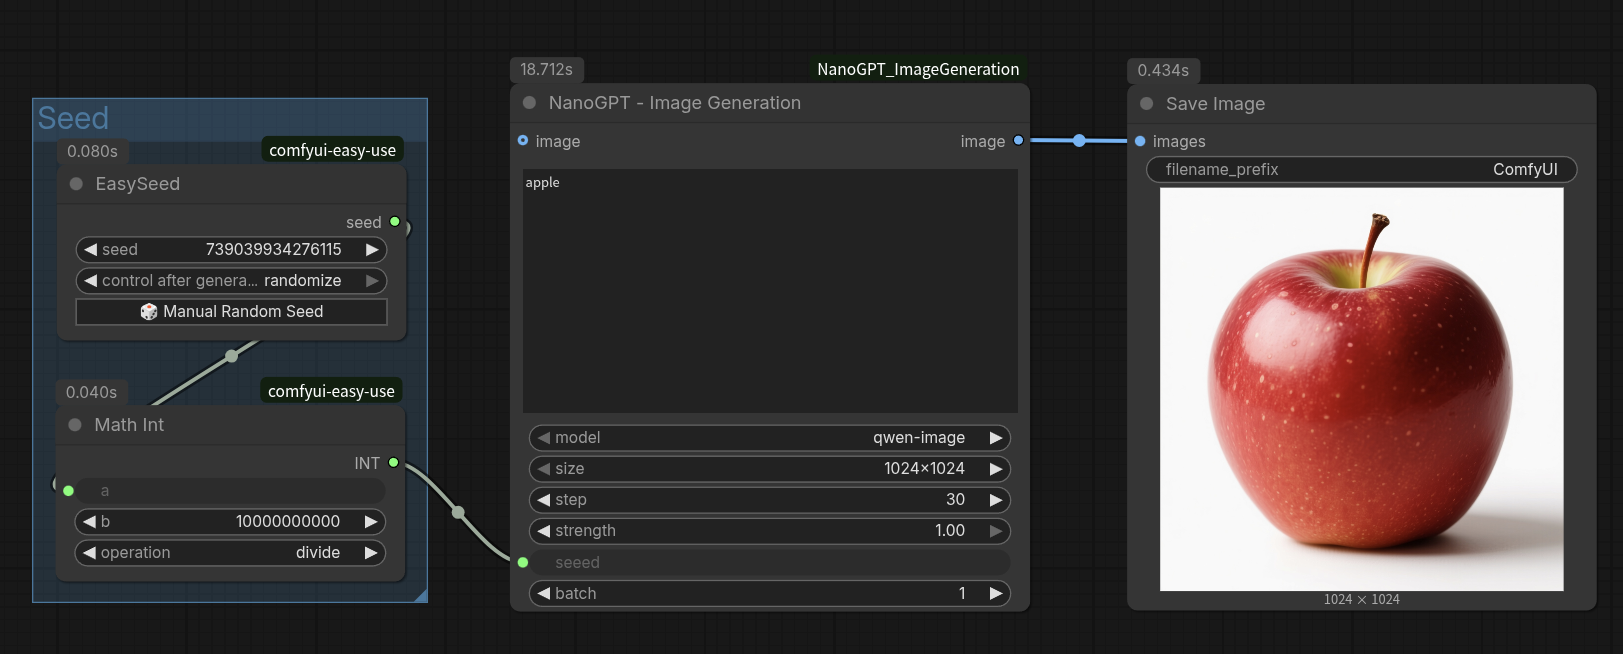
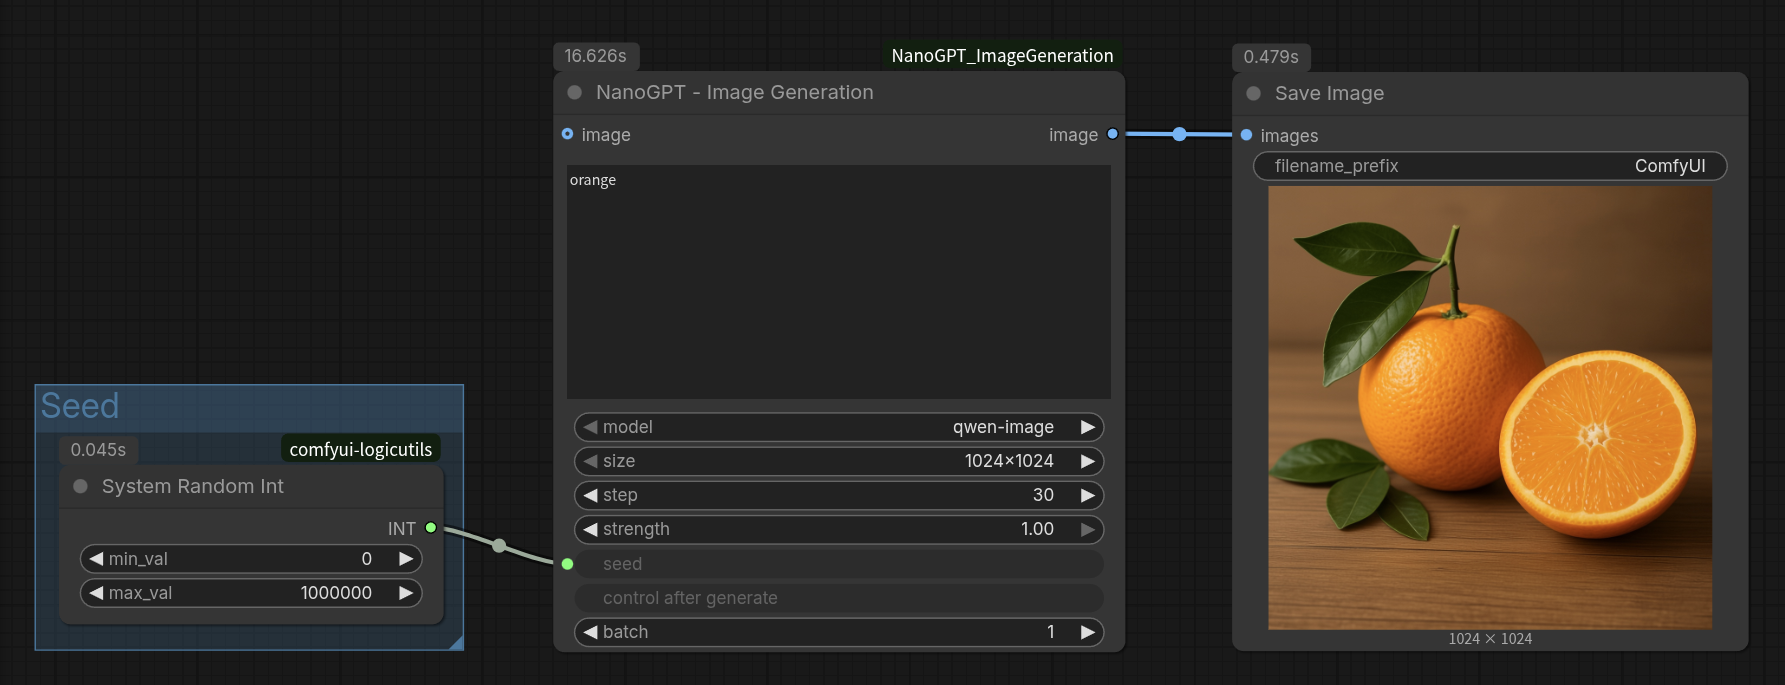
fix

diff --git a/README.md b/README.md
@@ -16,15 +16,12 @@ API_KEY = "sk-nano-XXXX-XXXX-XXXX-XXXX-XXXX"
 
 # Usage
 1. **Image Generation:**
-Load examples/workflow.json to ComfyUI, select the model and run.
+Load examples/workflow.json to ComfyUI, select the model and run, to use in SillyTavern or OpenWebUI etc, on ComfyUI go to Menu > File > Export (API) and load that json on your UI.
 ![example](https://github.com/myonmu0/ComfyUI-NanoGPT_ImageGeneration/blob/main/examples/1.png)
-
-For SillyTavern or OpenWebUI etc, to get random seed and yeld different image on each generation, load the examples/workflow_Random.json on ComfyUI, then go Menu > File > Export (API), and load that json to SillyTavern/OpenWebUI.
-![example](https://github.com/myonmu0/ComfyUI-NanoGPT_ImageGeneration/blob/main/examples/1_2.png)
 
 2. **Image Edit:**
 Use qwen-image model, Image Edit won't work on z-image-turbo, chroma or hidream.<br />
-Also this works on OpenWebUI, to get random seed on each edit use examples/workflow_Random.json  and add Load Image node.<br />
+Also this works on OpenWebUI.<br />
 ![example](https://github.com/myonmu0/ComfyUI-NanoGPT_ImageGeneration/blob/main/examples/2.png)
 
 
